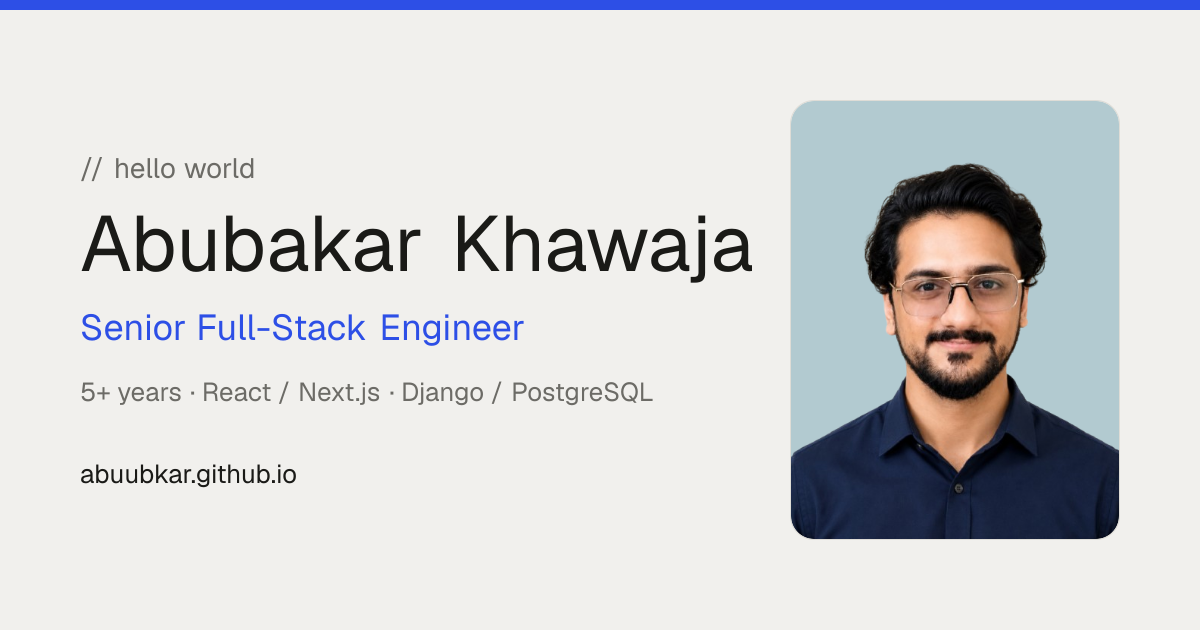
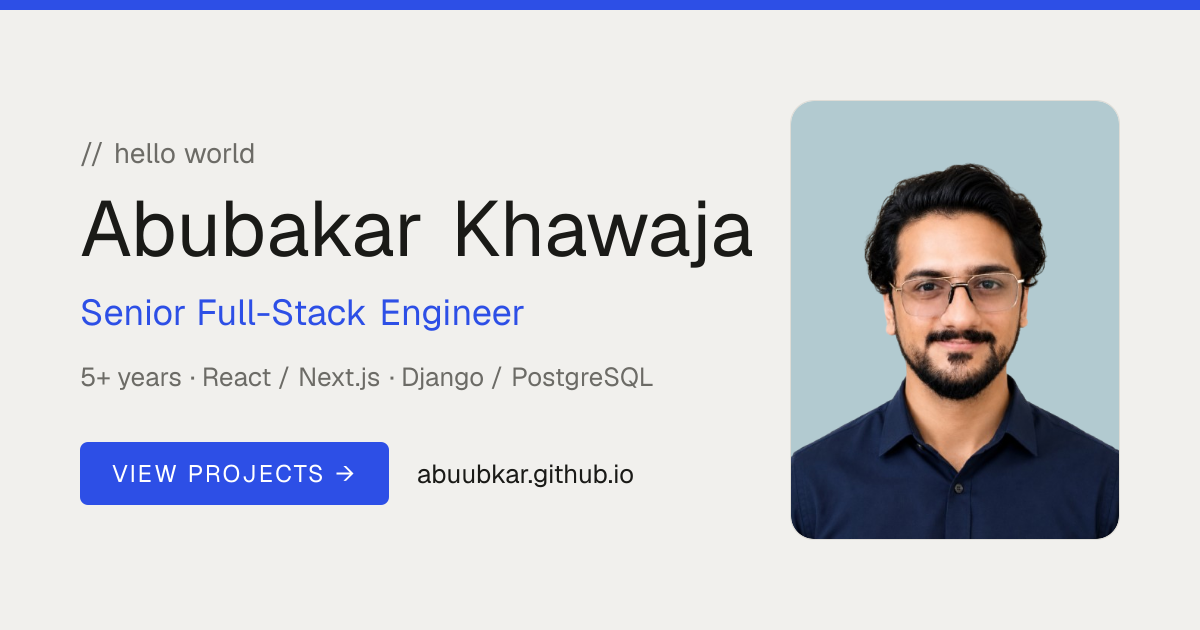
feat: shorter social descriptions and a CTA on the OG card
opengraph.xyz flagged the 155-char description (social previews
truncate ~125) and the missing call-to-action on the share image.
Split descriptions: search keeps the 155-char one, OG/Twitter get a
103-char variant. The card gains a "View projects" button mirroring
the hero. PNG regenerated with the one-off ImageResponse route,
then frozen at a stable .png path as before.

Changed region(s): [[0.0617, 0.2111, 0.6475, 0.5429], [0.0617, 0.6937, 0.5242, 0.8143], [0.0617, 0.573, 0.555, 0.6333]]

diff --git a/src/config/site.ts b/src/config/site.ts
@@ -78,9 +78,12 @@ export const siteConfig = {
       "Most codebases don't break overnight — they slow down, sprout edge cases, and turn shipping into guesswork.",
     pitchHighlight:
       "I trace the real bottlenecks, harden the foundations, and make releases boring again.",
-    // Meta/OG description — search engines truncate around 160 characters.
+    // Meta description — search engines truncate around 160 characters.
     metaDescription:
       "Senior Full-Stack Engineer with 5+ years shipping production software — React and Next.js frontends, Django/PostgreSQL backends, fast APIs, reliable CI/CD.",
+    // OG/Twitter description — social previews truncate around 125 characters.
+    socialDescription:
+      "Senior Full-Stack Engineer — 5+ years shipping React/Next.js and Django/PostgreSQL products end to end.",
     // Long-form summary shown on the page itself.
     intro:
       "Full-Stack Engineer with 5+ years building and shipping production software across React and Next.js frontends and Django/PostgreSQL backends. I take features from idea to deployment and focus on fast queries, clean APIs, and reliable CI/CD. I cut API response times 30–70% through query tuning and indexing, scaled Celery pipelines for heavy workloads, raised automated test coverage 10%→60%+, and reduced deployment time by ~40% through CI optimization.",

diff --git a/src/app/layout.tsx b/src/app/layout.tsx
@@ -37,10 +37,12 @@ export const metadata: Metadata = {
     lastName: profile.lastName,
     url: "/",
     siteName: profile.brand,
+    description: profile.socialDescription,
     locale: "en_US",
   },
   twitter: {
     card: "summary_large_image",
+    description: profile.socialDescription,
   },
 };
 
